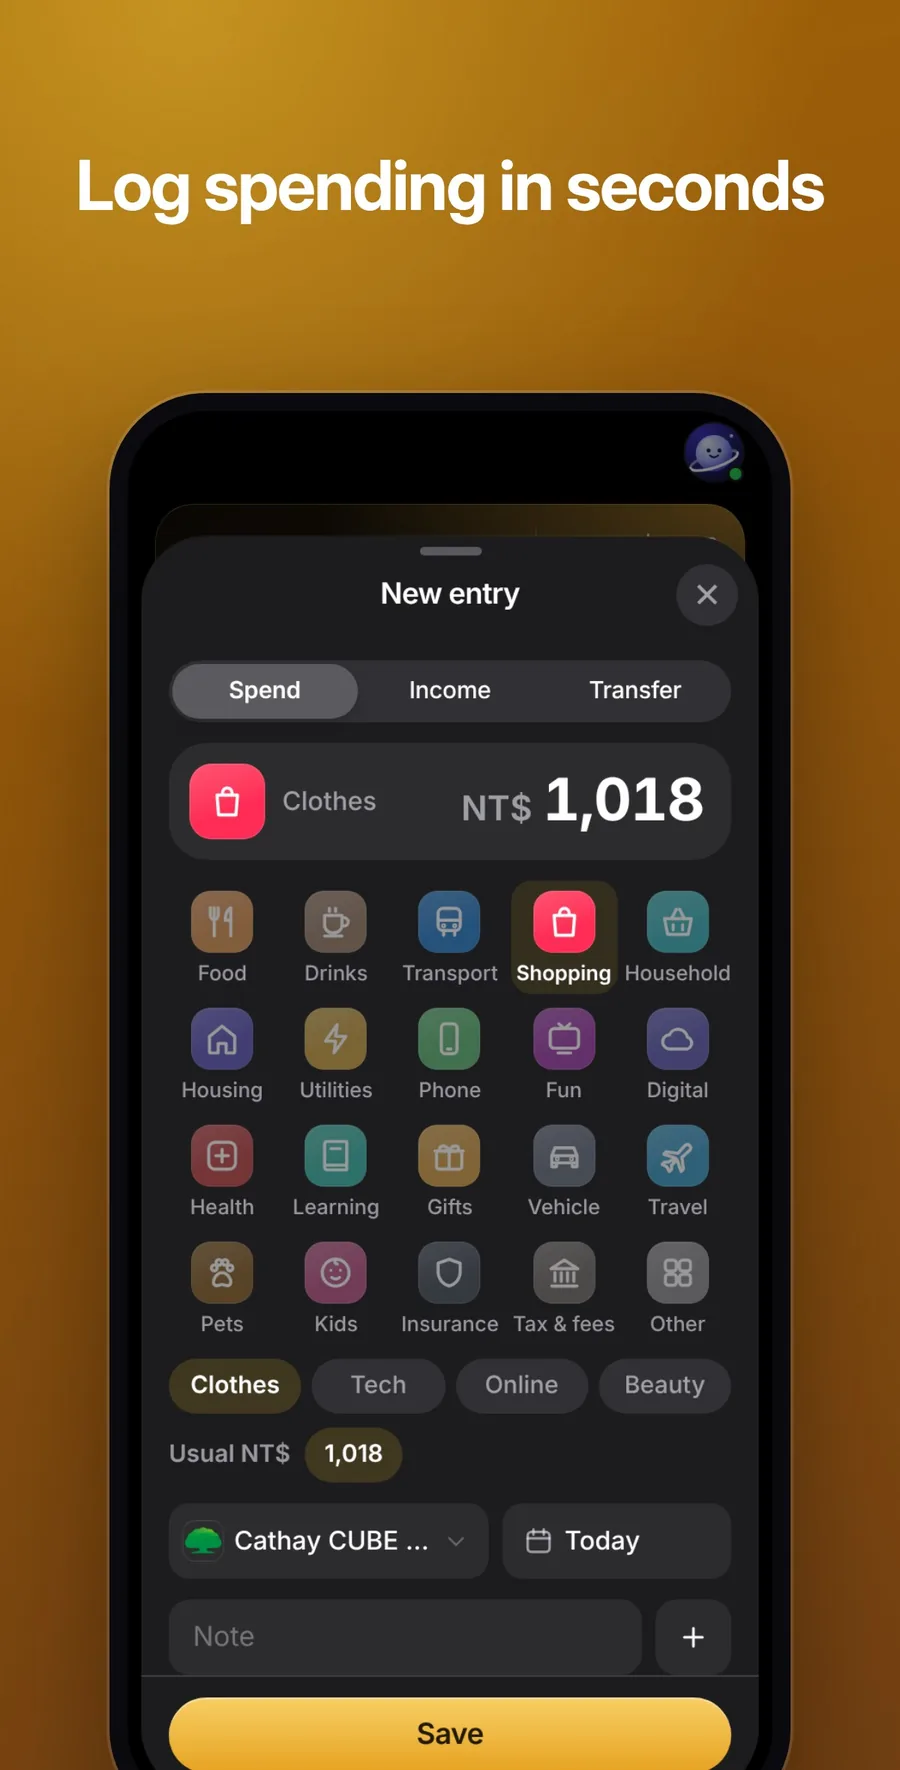
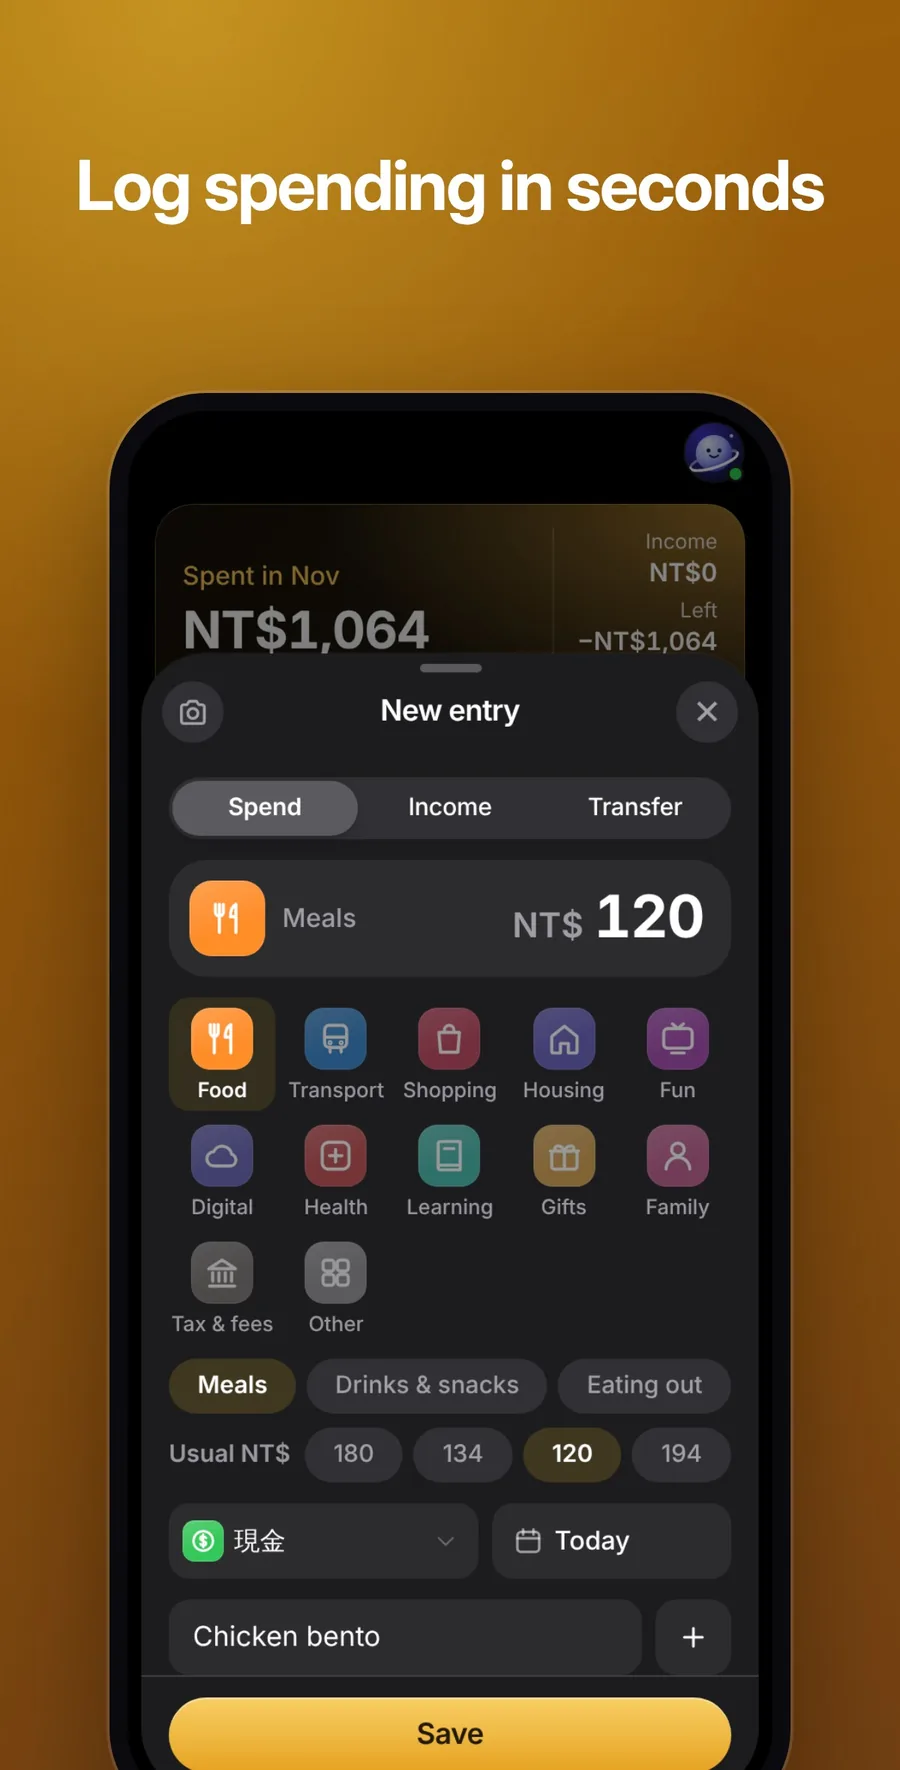
README: 記一筆 and 分類 retaken with the twelve categories; the 發票 shots gone (the feature was removed)
Claude-Session: https://claude.ai/code/session_01DckgWMmf5G6z82jYKVBpfz

diff --git a/README.md b/README.md
@@ -23,8 +23,7 @@ Your own books for real money: what you spend each day, what each account holds,
 
 <p align="center">
   <img src="docs/screenshots/money-4.webp" width="30%" alt="Where the money went">
-  <img src="docs/screenshots/money-5.webp" width="30%" alt="Every item on the receipt">
-  <img src="docs/screenshots/money-6.webp" width="30%" alt="Invoices checked for prizes">
+  <img src="docs/screenshots/money-5.webp" width="30%" alt="Twelve broad categories">
 </p>
 
 <p align="center"><sub>Screenshots use made-up sample books.</sub></p>
